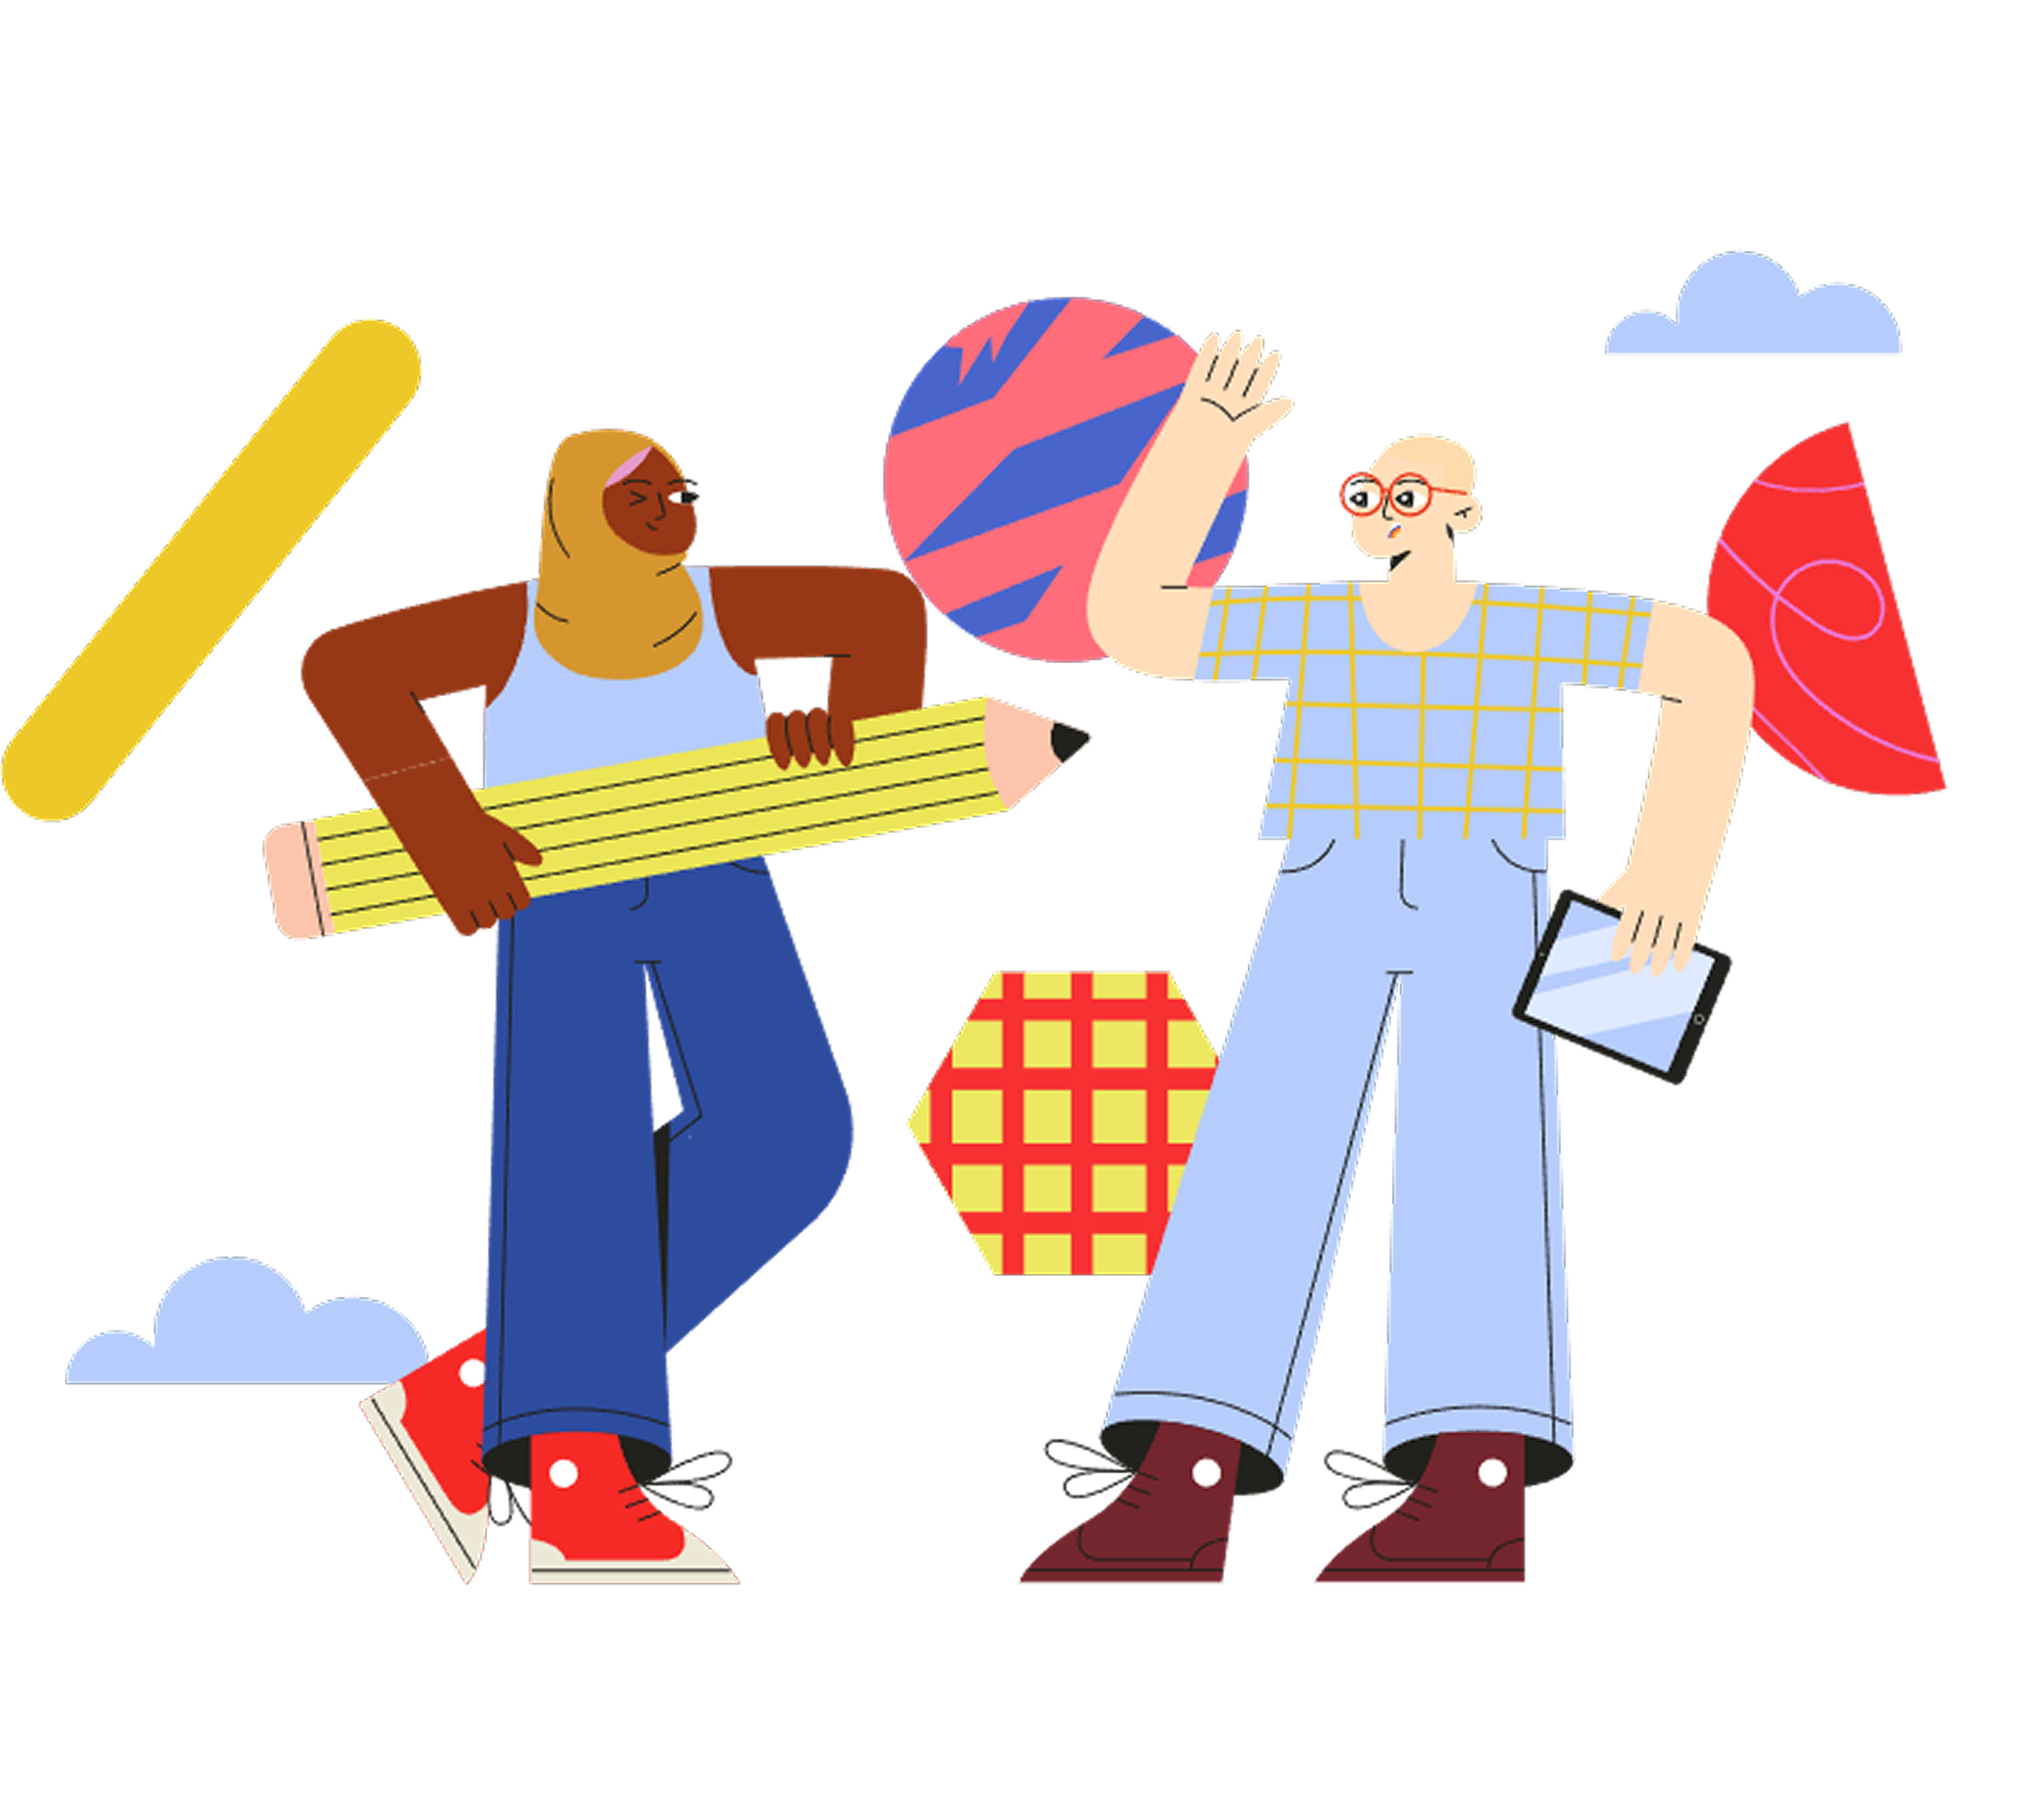
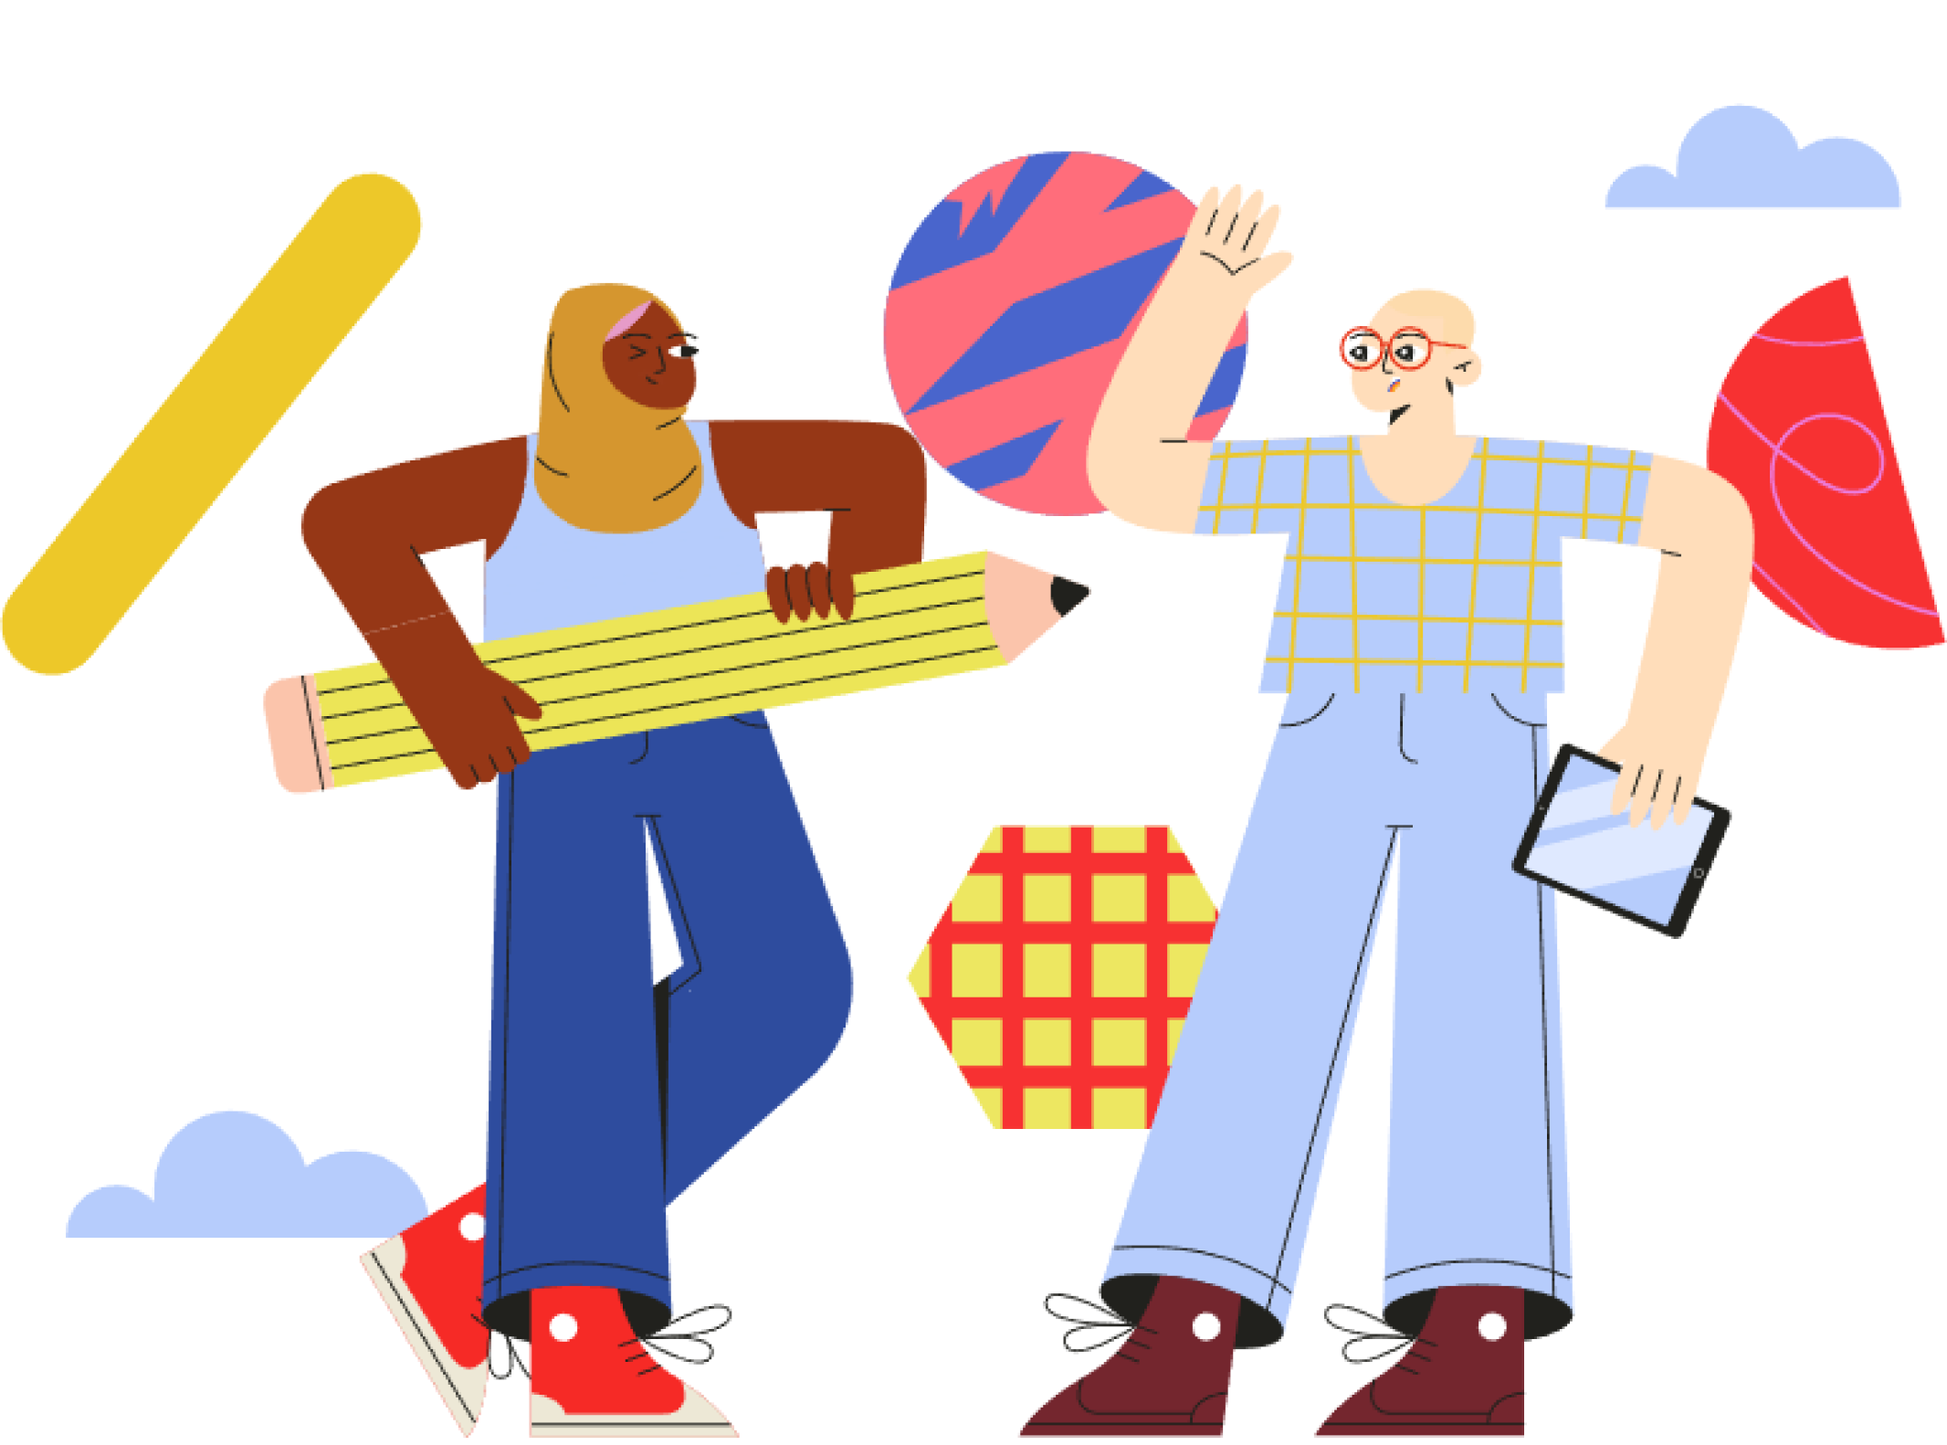
disenando el registro

diff --git a/frontend/app/(public)/registro/page.tsx b/frontend/app/(public)/registro/page.tsx
@@ -1,54 +1,19 @@
 const Registro = () => {
   return (
-    <div className="card bg-base-100 shadow-xl w-full max-w-md p-8">
-      <h1 className="text-2xl font-bold text-center mb-6">Crear cuenta</h1>
+    <fieldset className="fieldset w-3/5">
+      <div className="pb-10">
+          <legend className="text-4xl pb-2">Bienvenido</legend>
+          <p>Registrate para empezar</p>
+      </div>
 
-      <form className="flex flex-col gap-4">
-        <div className="form-control">
-          <label className="label">
-            <span className="label-text">Nombre</span>
-          </label>
-          <input
-            type="text"
-            placeholder="Tu nombre"
-            className="input input-bordered"
-          />
-        </div>
+      <label className="label">Email</label>
+      <input type="email" className="input w-full" placeholder="tu@email.com" />
 
-        <div className="form-control">
-          <label className="label">
-            <span className="label-text">Email</span>
-          </label>
-          <input
-            type="email"
-            placeholder="tu@email.com"
-            className="input input-bordered"
-          />
-        </div>
+      <label className="label">Password</label>
+      <input type="password" className="input w-full" placeholder="••••••••" />
 
-        <div className="form-control">
-          <label className="label">
-            <span className="label-text">Contraseña</span>
-          </label>
-          <input
-            type="password"
-            placeholder="••••••••"
-            className="input input-bordered"
-          />
-        </div>
-
-        <button type="submit" className="btn btn-primary w-full mt-2">
-          Registrarse
-        </button>
-      </form>
-
-      <p className="text-center mt-4 text-sm">
-        ¿Ya tienes cuenta?{" "}
-        <a href="/login" className="link link-primary">
-          Inicia sesión
-        </a>
-      </p>
-    </div>
+      <button className="btn btn-neutral mt-4">Login</button>
+    </fieldset>
   );
 };
 

diff --git a/frontend/app/(public)/layout.tsx b/frontend/app/(public)/layout.tsx
@@ -4,12 +4,12 @@ const PublicLayout = ({ children }: Readonly<{ children: React.ReactNode }>) => 
   return (
     <>
     <div className="min-h-screen flex">
-        <div className="flex-1 flex items-center justify-center bg-base-100 p-8">
+        <div className="flex-1 flex items-center justify-center bg-base-100">
             {children}
         </div>
-        <div className="hidden lg:flex flex-1 bg-primary items-center justify-center">
+        <div className="hidden lg:flex flex-1/4 bg-primary items-center justify-center">
         
-            <img src="/images/auth/amigos12.png" alt="" />
+            <img src="/images/auth/amigos12.png" className="w-3/5" alt="" />
         </div>
     </div>
     </>
